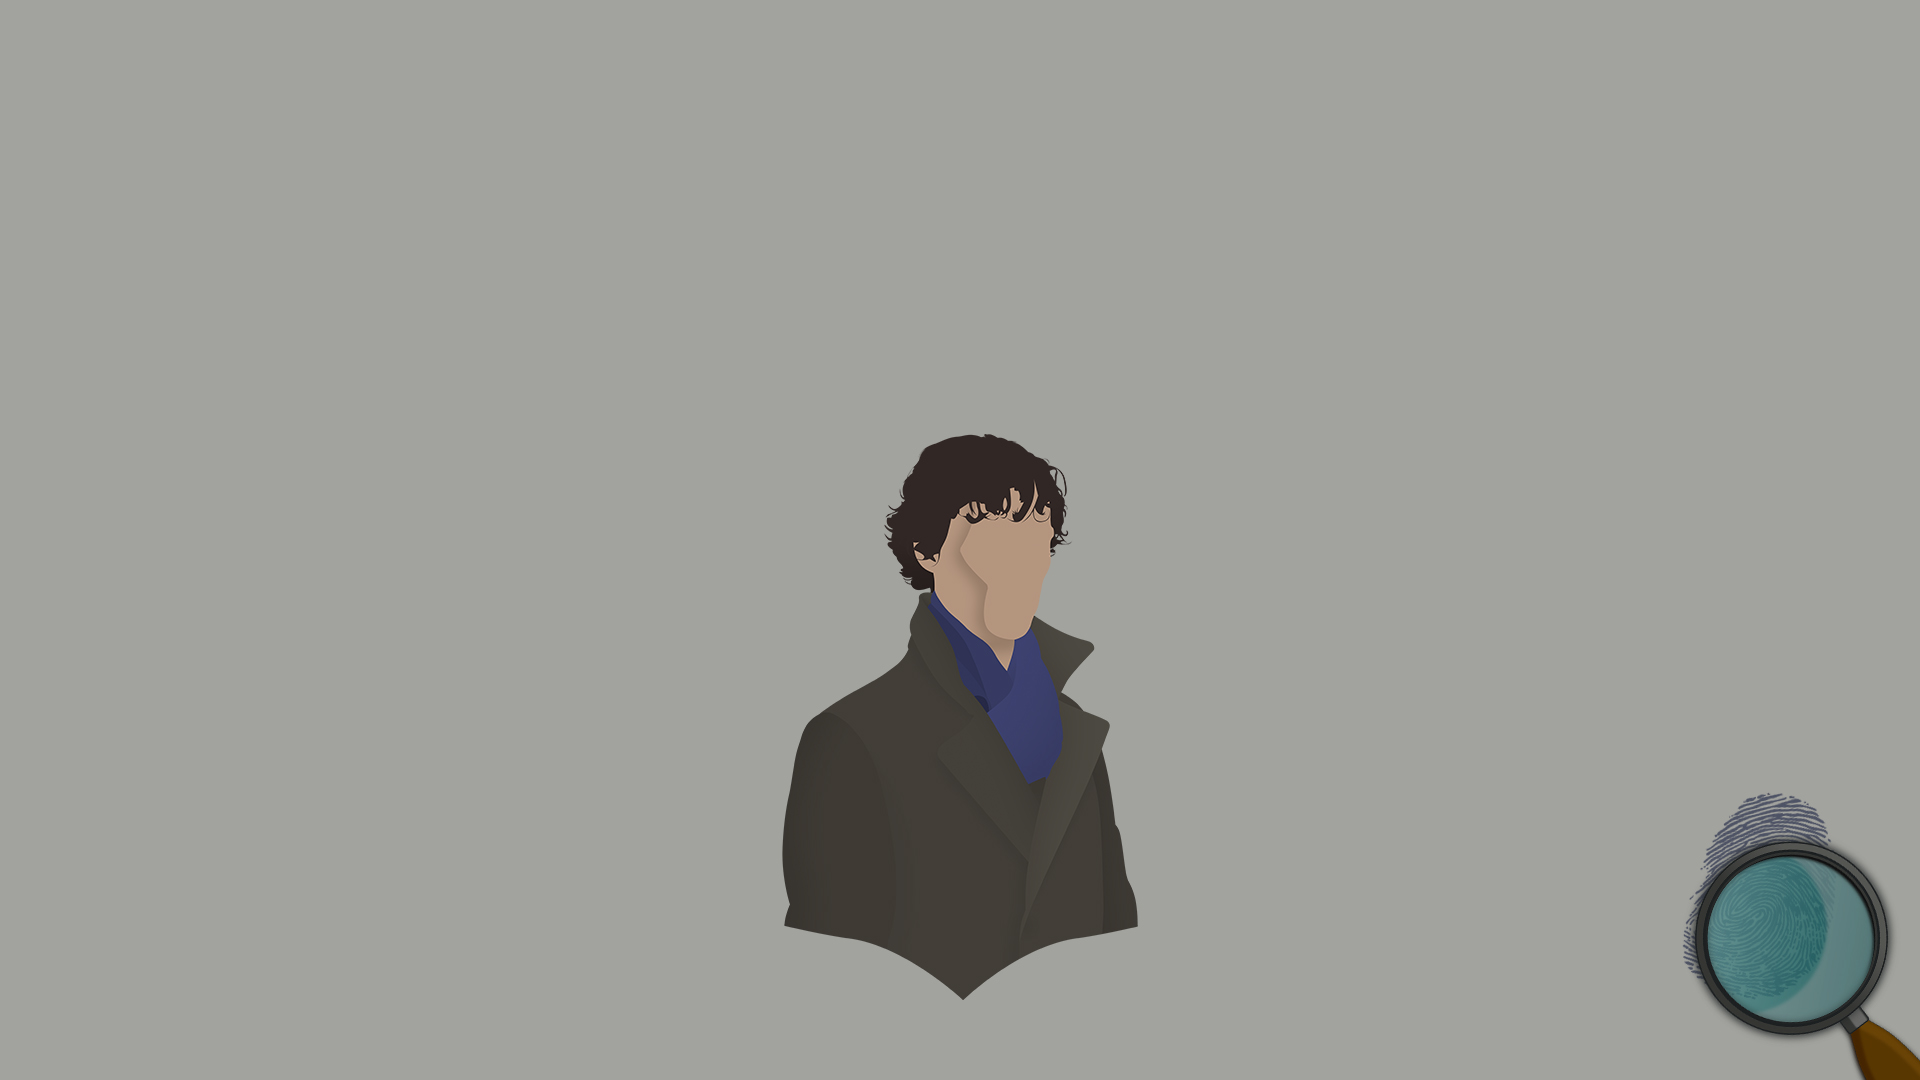
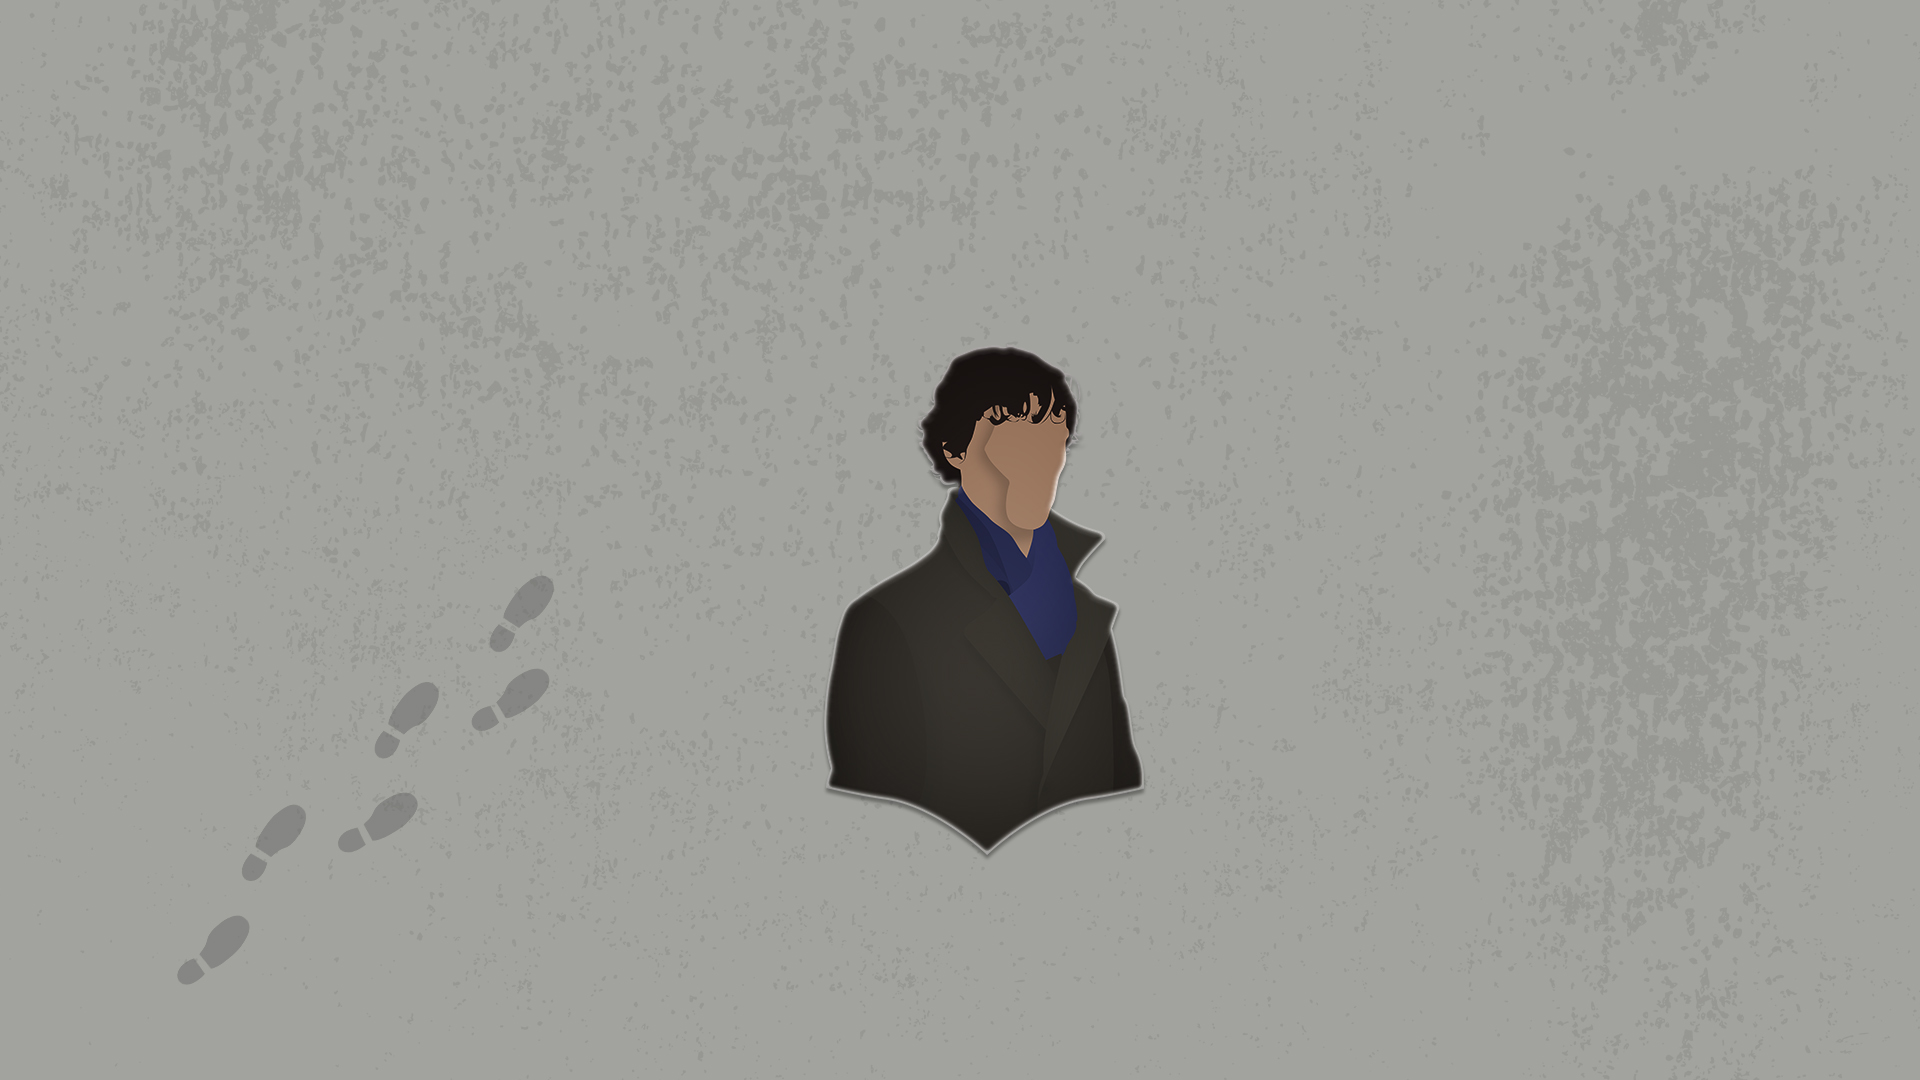
design_90%

diff --git a/templates/story.html b/templates/story.html
@@ -7,32 +7,71 @@
     <link href="https://fonts.googleapis.com/css2?family=Neucha&display=swap" rel="stylesheet">
     <title>Title</title>
 </head>
+<body>
 <h1>{{story.title}}</h1>
 <div>
     <p align="center">{{story.text}}</p>
 </div>
-<div>
-    <a class="btn alert-primary">Фото с места событий</a>
-{% for picture in picture_list %}
-    <p><img src={{ picture }}></p>
-{% endfor %}
-    <a class="btn alert-primary">Показания</a>
-    <p>{{story.spectator.capitalize()}}</p>
-
-    <a class="btn alert-primary">Улики</a>
-    <p>{{story.opinion.capitalize()}}</p>
+<div class="photo">
+    <a class="butt">Изображение с места событий</a>
+    <br>
+    {% for picture in picture_list %}
+    <div class="image">
+        <img src={{ picture }} class="photo-btn">
+        <br>
+    </div>
+    {% endfor %}
 </div>
-<a class="btn alert-warning">Ответ</a>
+<div class="spectator">
+    <a class="butt">Показания</a>
+    <br>
+    <div class="text">
+        <p class="spectator-btn">{{story.spectator.capitalize()}}</p>
+    </div>
+</div>
+<div class="opinion">
+    <a class="butt">Мнение коллег</a>
+    <br>
+    <div class="text">
+        <p class="opinion-btn">{{story.opinion.capitalize()}}</p>
+    </div>
+</div>
+<a class="butt">Ответ</a>
 <p>
     {% for ans in story.answer_choice.split('_') %}
     {{ans.capitalize()}}
     {% if ans == story.answer %}
-    <a class="btn alert-warning" href="/right_ans/{{ story.id }}"><font color="black">Да</font></a>
+    <a class="yes" href="/right_ans/{{ story.id }}"><font color="black">Да</font></a>
     {% else %}
-    <a class="btn alert-warning" href="/wrong_ans"><font color="black">Да</font></a>
+    <a class="yes" href="/wrong_ans"><font color="black">Да</font></a>
     {% endif %}
-    <a class="btn alert-warning"><font color="black">Нет</font></a>
+    <a class="no"><font color="black">Нет</font></a>
     {% endfor %}
 </p>
+<script>
+console.log('TEST')
+let photo_btn = document.querySelector('.photo a')
+let photo = document.querySelectorAll('.photo-btn')
+let spectator_btn = document.querySelector('.spectator a')
+let spectator = document.querySelector('.spectator-btn')
+let opinion = document.querySelector('.opinion-btn')
+let opinion_btn = document.querySelector('.opinion a')
 
+console.log(photo)
+
+photo_btn.addEventListener("click", function(){
+for (i=0; i<=photo.length; i++) {
+    photo[i].classList.add("photo-btn-active")
+}
+})
+spectator_btn.addEventListener("click", function(){
+    spectator.classList.add("spectator-btn-active")
+})
+
+opinion_btn.addEventListener("click", function(){
+    opinion.classList.add("opinion-btn-active")
+})
+
+</script>
+</body>
 {% endblock %}

diff --git a/static/css/style.css b/static/css/style.css
@@ -135,6 +135,7 @@ a.glo{
 a.glo:hover {
 background-position: 0 0;
 color:#fff;
+text-decoration: none;
 }
 
 a.mid{
@@ -183,4 +184,139 @@ html, body {
   height: 100%;
   margin: 0;
   padding: 0;
+}
+
+.anim {
+  display: inline-block;
+  position: fixed;
+  left: 35%;
+  width: 300px;
+  height: 150px;
+  text-align: center;
+}
+
+.anim--check {
+  top: 25%;
+  background: #A2A39E;
+}
+
+.anim--close {
+  top: 20%;
+  background: #A2A39E;
+}
+.photo-btn {
+  opacity: 0;
+}
+
+.photo-btn-active {
+  opacity: 1;
+  transition: all 2s ease;
+}
+.spectator-btn {
+  opacity: 0;
+  margin: 0 0 0 0;
+}
+.spectator-btn-active {
+  opacity: 1;
+  transition: all 2s ease;
+}
+.opinion-btn {
+  opacity: 0;
+  margin: 0 0 0 0;
+}
+.opinion-btn-active {
+  opacity: 1;
+  transition: all 2s ease;
+}
+.image {
+  display: inline-block;
+  background-color: #FDCDB3;
+  border: 1px solid #000;
+  border-radius: 5px;
+}
+.text {
+  display: inline-block;
+  background-color: #FDCDB3;
+  border: 1px solid #000;
+  border-radius: 5px;
+}
+a.yes{
+ color:#2DDD2D;
+ padding: 10px 20px;
+ width:75px;
+ text-decoration:none;
+ margin: 0 0 20px 0;
+ text-align:center;
+ display: block;
+ background-image: linear-gradient(to left,transparent,transparent 50%,#2DDD2D 50%,#2DDD2D);
+ background-position: 100% 0;
+ background-size: 200% 100%;
+ transition: all .25s ease-in;
+ font-family: 'Neucha', cursive;
+ font-size: 20px;
+ border: 1px solid #313131;
+}
+
+a.yes:hover {
+background-position: 0 0;
+color:#fff;
+text-decoration: none;
+}
+a.no{
+ color:#D42222;
+ padding: 10px 20px;
+ width:75px;
+ text-decoration:none;
+ margin: 0 0 20px 0;
+ text-align:center;
+ display: block;
+ background-image: linear-gradient(to left,transparent,transparent 50%,#D42222 50%,#D42222);
+ background-position: 100% 0;
+ background-size: 200% 100%;
+ transition: all .25s ease-in;
+ font-family: 'Neucha', cursive;
+ font-size: 20px;
+ border: 1px solid #313131;
+}
+
+a.no:hover {
+background-position: 0 0;
+color:#fff;
+text-decoration: none;
+}
+.butt{
+  background:#C3C1EC;
+  color:#fff;
+  border:1px solid #C3C1EC;
+  position:relative;
+  height:60px;
+  font-size:1.6em;
+  padding:0 2em;
+  cursor:pointer;
+  transition:800ms ease all;
+  outline:none;
+}
+.butt:hover{
+  background:#fff;
+  color:#C3C1EC;
+}
+.butt:before,button:after{
+  content:'';
+  position:absolute;
+  top:0;
+  right:0;
+  height:2px;
+  width:0;
+  background:#C3C1EC;
+  transition:400ms ease all;
+}
+.butt:after{
+  right:inherit;
+  top:inherit;
+  left:0;
+  bottom:0;
+}
+.butt:hover:before,button:hover:after{
+  width:100%;
+  transition:800ms ease all;
 }

diff --git a/templates/base.html b/templates/base.html
@@ -3,7 +3,7 @@
 <head>
     <meta charset="utf-8">
     <meta name="viewport" content="width=device-width, initial-scale=1, shrink-to-fit=no">
-    <link rel="stylesheet" type="text/css" href="static/css/style.css">
+    <link rel="stylesheet" type="text/css" href="../static/css/style.css">
     <link href="https://fonts.googleapis.com/css2?family=Neucha&display=swap" rel="stylesheet">
     <link rel="stylesheet"
           href="https://stackpath.bootstrapcdn.com/bootstrap/4.4.1/css/bootstrap.min.css"
@@ -11,7 +11,7 @@
           crossorigin="anonymous">
     <title>{{title}}</title>
 </head>
-<body style="background-image:url({{background}}); background-size: contain; background-repeat: repeat-x;">
+<body style="background-image:url({{background}}); background-size: cover; background-color: #A2A39E; background-repeat: repeat-x;">
 {% if current_user.is_authenticated %}
 <nav>
     <a class="navbar-brand white" href="/logout">{{current_user.nickname}}</a>

diff --git a/templates/win.html b/templates/win.html
@@ -8,7 +8,17 @@
     <title>Title</title>
 </head>
 <div class="center-text">
-<h1>Поздравляем! Вы настоящий Шерлок!</h1>
-<h2>Справились с задачей безукоризненно! Продолжайте в том же духе!</h2>
+    <h1>Поздравляем! Вы настоящий Шерлок!</h1>
+    <h2>Справились с задачей безукоризненно! Продолжайте в том же духе!</h2>
+</div>
+<div class="anim anim--check nume">
+    <svg width="500" height="500" viewBox="0 0 48 48" fill="none"
+         stroke="green" stroke-width="3" stroke-dasharray="100">
+        <path id="check" d="M 12,22 L 22,31 L 36,13"
+              stroke-dashoffset="0">
+            <animate attributeName="stroke-dashoffset"
+                     from="100" to="0" repeatCount="1" dur="4.5s"></animate>
+        </path>
+    </svg>
 </div>
 {% endblock %}

diff --git a/templates/false.html b/templates/false.html
@@ -9,6 +9,18 @@
 </head>
 <div class="center-text">
 <h1>Да... В этот раз Вас постигла неудача.</h1>
-<h2>Но как хорошо, что у нас есть дела в запасе!</h2>
+<h2>Но как хорошо, что имеются еще дела в запасе!</h2>
+</div>
+<br>
+<div class="anim anim--close nume">
+  <svg width="500" height="500" viewBox="0 0 48 48" fill="none"
+       stroke="red" stroke-width="3" stroke-dasharray="100">
+    <path id="fail" d="M 15,15 L 32,33 M 32,15 L 15,33"
+          stroke-dashoffset="0">
+      <animate attributeName="stroke-dashoffset"
+               from="100" to="0" repeatCount="1" dur="5.5s">
+      </animate>
+    </path>
+  </svg>
 </div>
 {% endblock %}

diff --git a/main.py b/main.py
@@ -148,13 +148,13 @@ def right_answer(id):
     user.add_story(str(story.id))
 
     session.commit()
-    return render_template('win.html', background=url_for('static', filename='img/bg.jpg'))
+    return render_template('win.html', background=url_for('static', filename='img/mbg.jpg'))
 
 
 @app.route('/wrong_ans')
 @login_required
 def wrong_answer():
-    return render_template('false.html', background=url_for('static', filename='img/bg.jpg'))
+    return render_template('false.html', background=url_for('static', filename='img/mbg.jpg'))
 
 
 @app.route('/logout')
